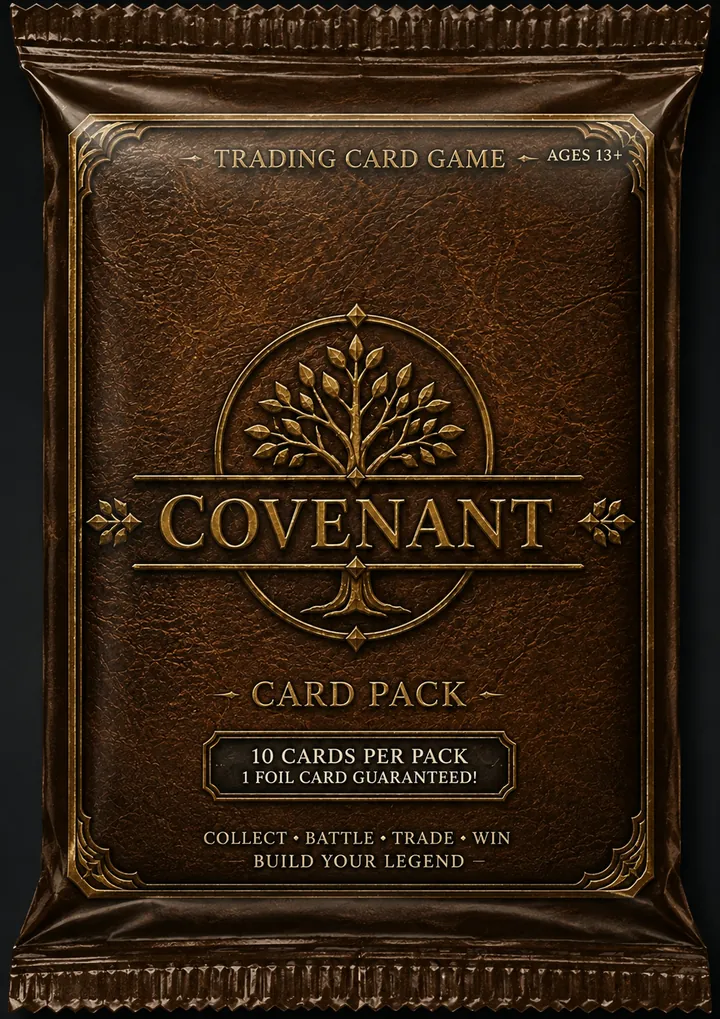
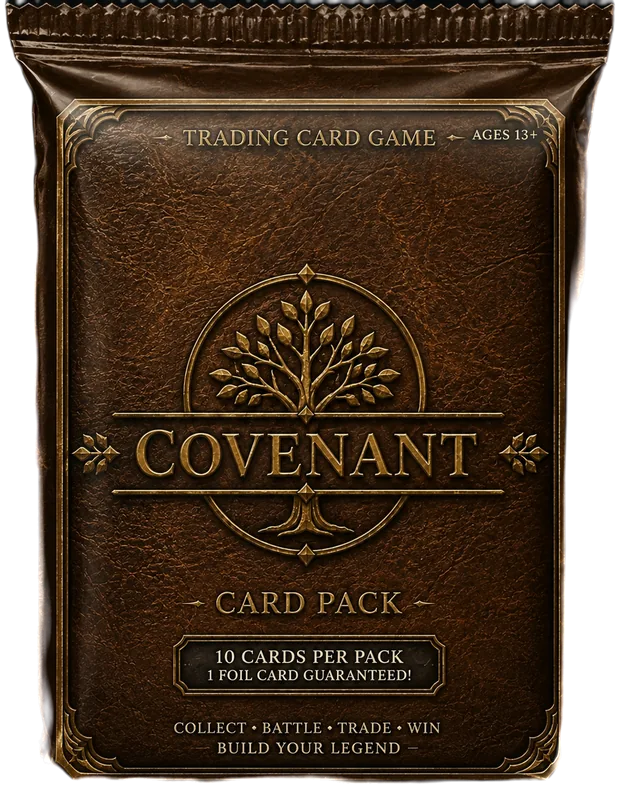
Cut the pack photo's studio backdrop out
The photo was a product shot on a near-black backdrop, and that backdrop
was still there once it landed in the app: rectangular black corners
around a pack that is not actually rectangular, most visible against the
cream hero panel on Home and the Shop's list background.

A first pass through rembg's matting model wasn't enough on its own — its
alpha ramp fades over roughly 40px of this ~1050px-wide photo, which reads
as a soft dark halo the moment the pack sits on anything but a near-black
page. scripts/cutout-pack.py (new) fixes that in two steps after the raw
matte: a levels stretch collapses that 40px ramp back to a normal few-pixel
antialiased edge, and colour decontamination recovers the true foreground
colour for whatever short ramp remains, using a background colour sampled
from the original photo's own confidently-background pixels. The result is
cropped to its own bounding box and shipped as an alpha-channel webp.

Because the wrapper is now a real silhouette rather than a rectangle, the
rectangle-specific polish on .cov-pack comes out with it: the `overflow:
hidden` and `border-radius` had nothing left to clip, and the inset
box-shadow drew a frame in what is now empty transparent margin. The two
callers that already wrap PackWrapper in their own `filter: drop-shadow`
(the carousel ring, the pack-opening screen) get a real improvement for
free — a shadow follows the alpha channel, so it now hugs the pack's actual
[…]

diff --git a/src/art/packWrapper.css b/src/art/packWrapper.css
@@ -5,9 +5,16 @@
  * drawn variants. What told the packs apart on a real shelf was never the
  * wrapper stock — it was the name struck across the middle of it. The name
  * here lands in the exact band the photograph already left plain for it,
- * measured off the source image: 65.1% to 71.5% of the height clears the tree
+ * measured off the source image: 72.8% to 79.7% of the height clears the tree
  * medallion's finial above it and the stat panel's border below it, on every
  * pack, at every size.
+ *
+ * The photo's studio backdrop is cut out (see the pipeline note in
+ * PackWrapper.tsx), so the wrapper is a real silhouette rather than a
+ * rectangle — there is nothing left to clip or box-frame here. Every caller's
+ * own `filter: drop-shadow` (the ring in global.css, the sealed pack in
+ * PackOpen) now hugs that silhouette automatically, which is also why none is
+ * set here: a shadow inside PackWrapper would stack under a caller's own.
  *
  * `container-type: inline-size` and `cqw` units carry the same discipline as
  * the card frame (card.css): one set of rules serves an 86px Shop thumbnail
@@ -17,13 +24,8 @@
 .cov-pack {
   position: relative;
   width: 100%;
-  aspect-ratio: 720 / 1019;
-  border-radius: 4.5cqw;
-  overflow: hidden;
+  aspect-ratio: 620 / 789;
   container-type: inline-size;
-  box-shadow:
-    inset 0 0 0 1px rgba(0, 0, 0, 0.35),
-    inset 0 1px 0 rgba(255, 255, 255, 0.06);
 }
 
 .cov-pack__photo {
@@ -31,7 +33,9 @@
   inset: 0;
   width: 100%;
   height: 100%;
-  object-fit: cover;
+  /* The container is sized to the image's own ratio, so this never actually
+     crops — `contain` just says plainly that nothing should. */
+  object-fit: contain;
 }
 
 .cov-pack__plate {
@@ -39,8 +43,8 @@
   z-index: 0;
   left: 8%;
   right: 8%;
-  top: 65.1%;
-  height: 6.4%;
+  top: 72.8%;
+  height: 6.9%;
   display: flex;
   align-items: center;
   justify-content: center;

diff --git a/scripts/cutout-pack.py b/scripts/cutout-pack.py
@@ -1,0 +1,110 @@
+#!/usr/bin/env python3
+"""
+Cut a booster-pack product photo out of its studio backdrop.
+
+    python3 scripts/cutout-pack.py source.png public/art/packs/wrapper.webp
+
+rembg's matte alone is not enough here: on this photo its alpha ramp fades
+over roughly 40px of a ~1050px-wide image, which reads as a soft dark halo
+once the pack sits on anything but a near-black page — exactly the "there's
+a background on the pack" complaint this script exists to fix. Two things
+are done on top of the raw matte:
+
+  1. A levels stretch on the alpha channel collapses that 40px ramp back down
+     to a normal few-pixel antialiased edge.
+  2. Colour decontamination recovers the true foreground colour for whatever
+     short ramp remains, so the edge doesn't carry a tint of the (near-black)
+     backdrop it was cut from. Without this, partially-transparent edge
+     pixels still show blended background colour, which reads as a dark
+     fringe on a light page.
+
+The result is cropped to its own bounding box — no reason to ship a large
+transparent margin — and written as an alpha-channel webp.
+"""
+
+import argparse
+import sys
+from pathlib import Path
+
+from PIL import Image, ImageFilter
+
+try:
+    import numpy as np
+except ImportError:
+    sys.exit("Needs numpy: pip install numpy")
+
+try:
+    from rembg import remove, new_session
+except ImportError:
+    sys.exit("Needs rembg + onnxruntime: pip install rembg onnxruntime")
+
+
+def cutout(source: Image.Image) -> Image.Image:
+    session = new_session("u2net")
+    raw = remove(source.convert("RGB"), session=session)
+
+    src = np.asarray(source.convert("RGB")).astype(np.float64)
+    alpha0 = np.asarray(raw)[:, :, 3].astype(np.float64)
+
+    # A robust background colour, sampled from the original photo wherever
+    # the raw matte is confidently background (not from rembg's own RGB
+    # output, which may already carry some blending).
+    bg_color = np.median(src[alpha0 < 8], axis=0)
+
+    # Stretch the ramp. These bounds are tuned to this photo's matte, not a
+    # universal constant — re-check the edge profile (see the plan/PR notes)
+    # if this is re-run against a differently lit source.
+    low, high = 50.0, 170.0
+    alpha1 = np.clip((alpha0 - low) / (high - low), 0.0, 1.0)
+
+    # Decontaminate: recover the true foreground colour by removing the
+    # background's contribution, using the *stretched* alpha so the divide
+    # isn't blowing up on the tiny raw values right at the old ramp's foot.
+    a = alpha1[:, :, None]
+    safe_a = np.where(a < 0.06, 1.0, a)
+    fg = np.clip((src - bg_color[None, None, :] * (1 - safe_a)) / safe_a, 0, 255)
+
+    out = Image.merge(
+        "RGBA",
+        [Image.fromarray(fg[:, :, c].astype(np.uint8)) for c in range(3)]
+        + [Image.fromarray(np.clip(alpha1 * 255, 0, 255).astype(np.uint8))],
+    )
+
+    # A small blur on the alpha channel only, so the tightened edge is a
+    # normal antialiased line rather than a hard stair-step.
+    r, g, b, a_ch = out.split()
+    return Image.merge("RGBA", (r, g, b, a_ch.filter(ImageFilter.GaussianBlur(0.6))))
+
+
+def main() -> None:
+    parser = argparse.ArgumentParser(description=__doc__)
+    parser.add_argument("source", type=Path)
+    parser.add_argument("destination", type=Path)
+    parser.add_argument("--width", type=int, default=620, help="output width in px")
+    parser.add_argument("--pad", type=int, default=8, help="px kept around the tight crop")
+    args = parser.parse_args()
+
+    if not args.source.is_file():
+        sys.exit(f"No such file: {args.source}")
+
+    out = cutout(Image.open(args.source))
+
+    w, h = out.size
+    mask = out.split()[-1].point(lambda p: 255 if p > 8 else 0)
+    l, t, r, b = mask.getbbox()
+    l, t = max(0, l - args.pad), max(0, t - args.pad)
+    r, b = min(w, r + args.pad), min(h, b + args.pad)
+    out = out.crop((l, t, r, b))
+
+    target_h = round(out.size[1] * args.width / out.size[0])
+    out = out.resize((args.width, target_h), Image.LANCZOS)
+
+    args.destination.parent.mkdir(parents=True, exist_ok=True)
+    out.save(args.destination, "WEBP", quality=82, alpha_quality=80, method=6)
+
+    kb = args.destination.stat().st_size / 1024
+    print(f"{args.destination}  {out.size[0]}x{out.size[1]}  {kb:.0f} KB")
+
+
+if __name__ == "__main__":
+    main()
